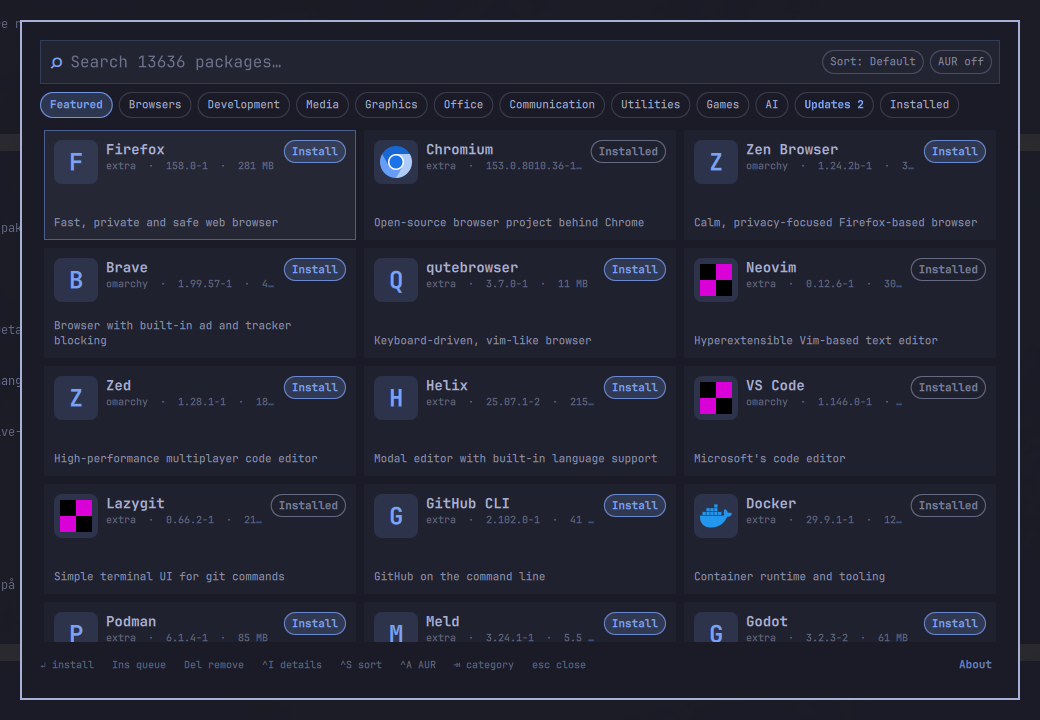
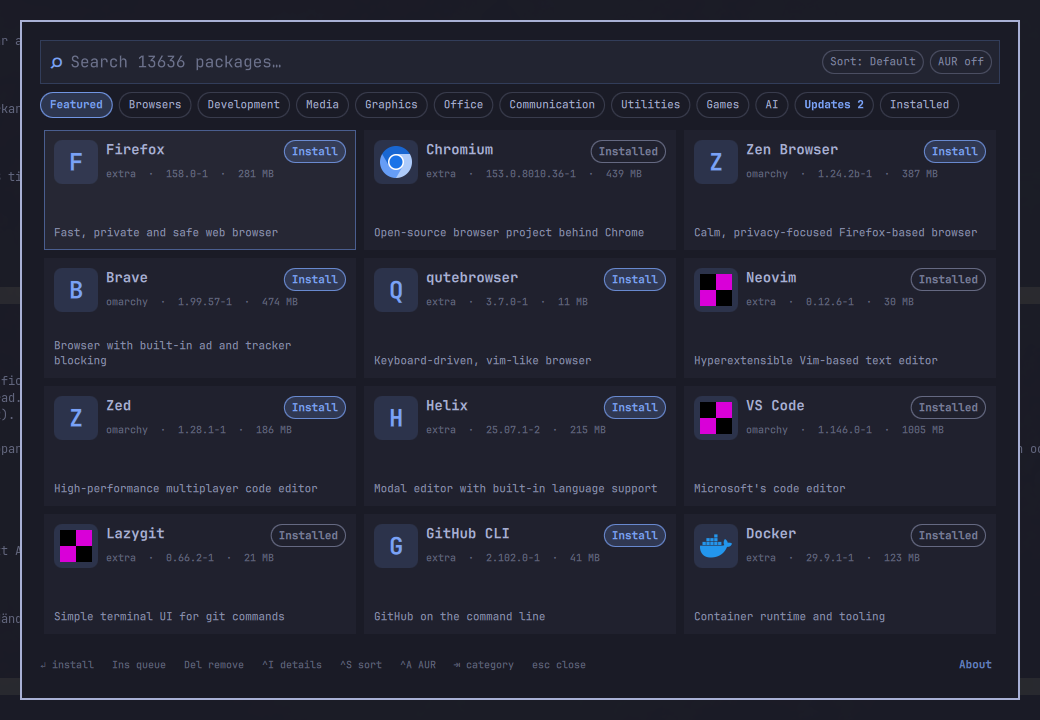
Fix card meta layout, add screenshots and refresh preview
- Meta line sits below the action pill and uses the full card width
- Detail view background is opaque
- Add docs/screenshots and a README gallery, new preview.png

diff --git a/HangarStore.qml b/HangarStore.qml
@@ -680,7 +680,7 @@ Item {
             clip: true
             model: root.items
             cellWidth: Math.floor(width / root.columns)
-            cellHeight: Style.space(118)
+            cellHeight: Style.space(128)
             boundsBehavior: Flickable.StopAtBounds
 
             delegate: Item {
@@ -781,7 +781,8 @@ Item {
                   anchors.left: nameText.left
                   anchors.right: parent.right
                   anchors.rightMargin: Style.spacing.lg + 2
-                  anchors.top: nameText.bottom
+                  anchors.top: actionPill.bottom
+                  anchors.topMargin: Style.spacing.sm
                   textFormat: Text.PlainText
                   text: {
                     var bits = []

diff --git a/README.md b/README.md
@@ -16,6 +16,17 @@ package in your repositories, and install or remove with one key.
 
 </div>
 
+## Screenshots
+
+| | |
+|---|---|
+| **Updates tab.** Pending repository and AUR updates, one key to update all. | **Details** (`Ctrl+I`) for a package: sizes, dependencies, homepage. |
+| ![Updates tab](docs/screenshots/03-updates-tab.png) | ![Details view](docs/screenshots/04-details-update.png) |
+| **AUR trust signals.** Warnings for stale, orphaned and out-of-date packages, with votes and age. | **Details for an AUR package** with a plain-language warning. |
+| ![AUR results sorted by votes with warnings](docs/screenshots/06-aur-sorted-by-votes.png) | ![AUR package details with warning](docs/screenshots/07-details-aur-trust.png) |
+| **Sort** by name, size or votes (`Ctrl+S`). | **Search** with the AUR switched on (`Ctrl+A`). |
+| ![Sorted by size](docs/screenshots/02-sort-by-size.png) | ![Search with AUR on](docs/screenshots/05-aur-trust-warnings.png) |
+
 ## Install
 
 ```bash

diff --git a/ROADMAP.md b/ROADMAP.md
@@ -35,4 +35,5 @@ Shipped items are listed in [CHANGELOG.md](CHANGELOG.md).
 
 - Bump `version` in `manifest.json` for every release and tag it (`v1.1.0`).
 - Add an entry to `CHANGELOG.md`.
-- Refresh the screenshots in `docs/screenshots/`.
+- Refresh the screenshots in `docs/screenshots/` and `preview.png`. Restart the shell
+  (`omarchy-restart-shell`) before capturing, because the shell caches plugin QML.
